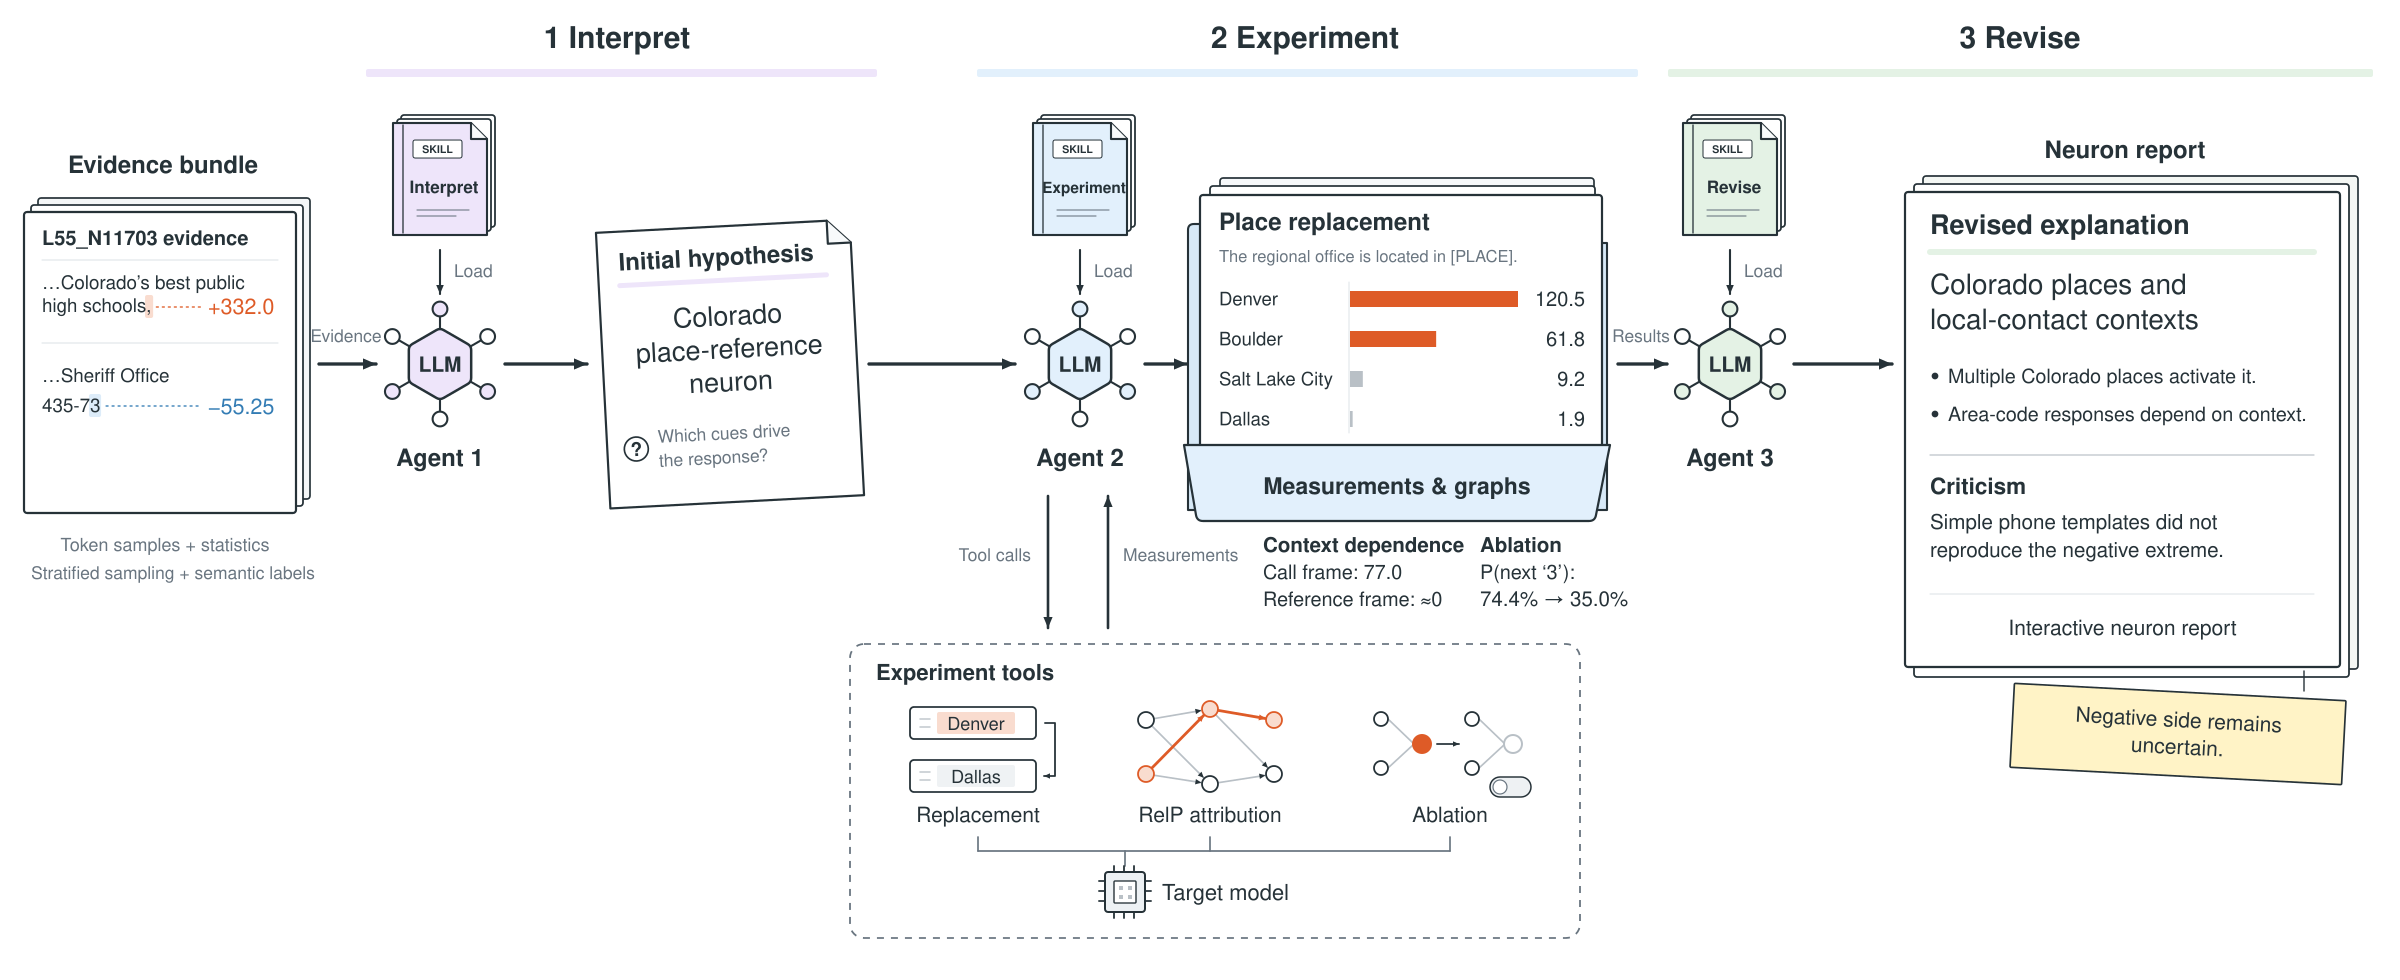
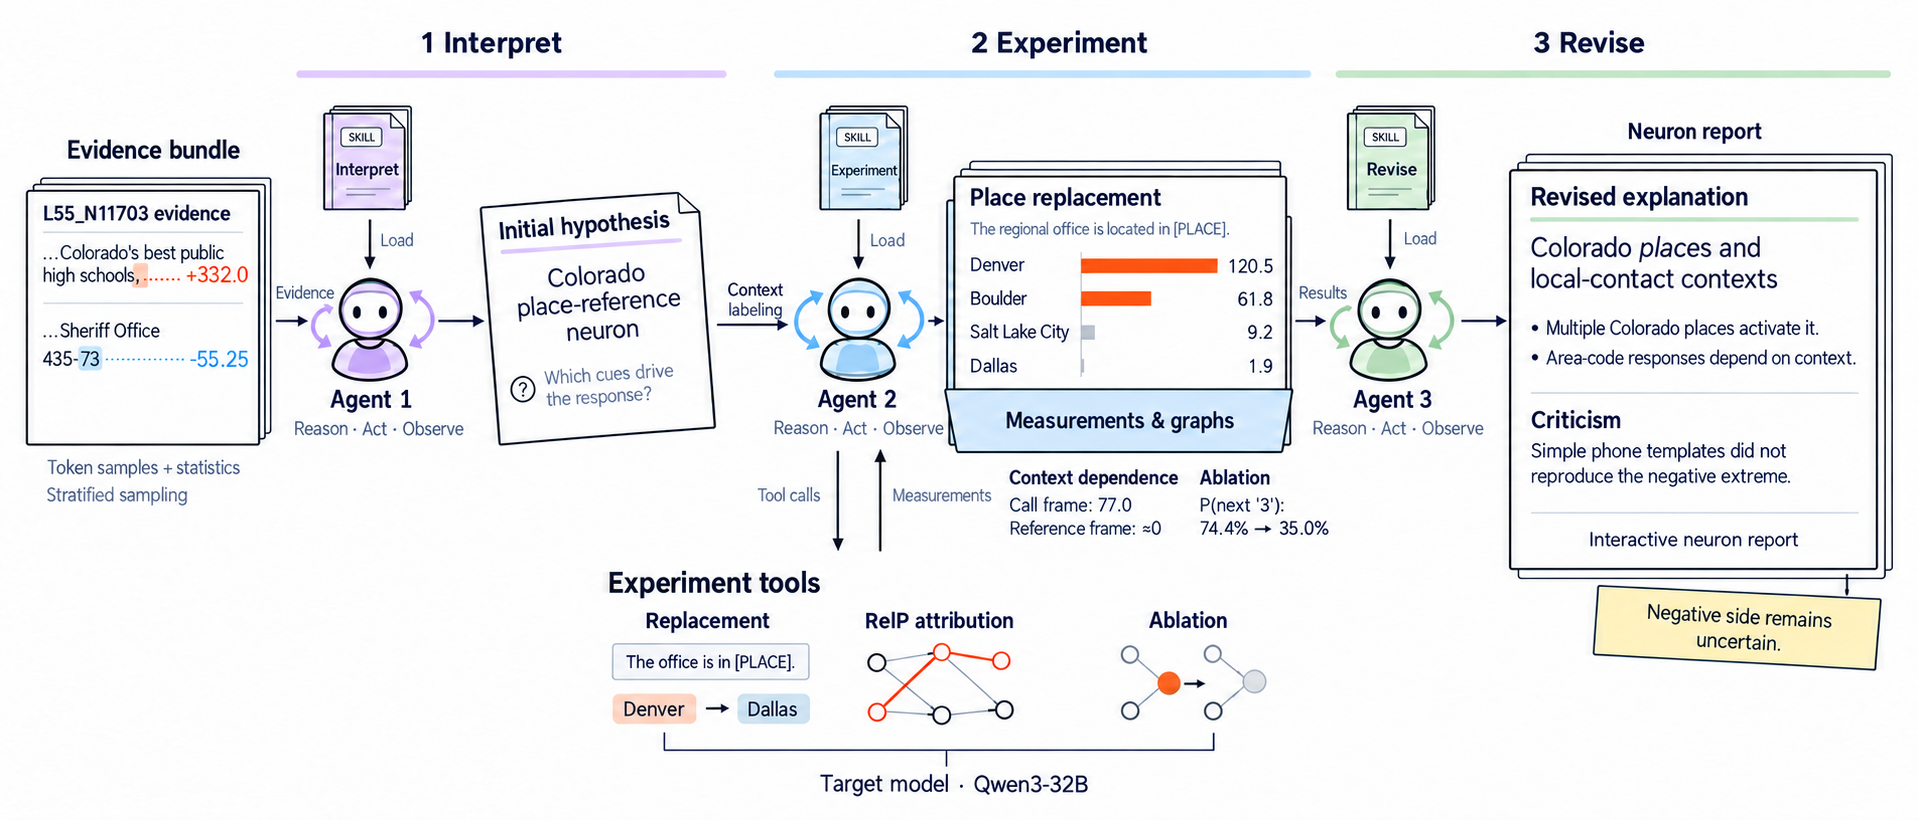
Update workflow illustration

Changed region(s): [[0.0, 0.0305, 0.9844, 0.9756], [0.5845, 0.7317, 0.6767, 0.8841]]

diff --git a/README.md b/README.md
@@ -57,7 +57,7 @@ Compare each reproduction with its original neuron paper. The directory lists bo
 
 ## ⚗ How It Works <a id="workflow"></a>
 
-![Evidence preparation and the three agent containers, with JSON/HTML handoffs and model measurements performed by host tools](assets/workflow.png)
+![Three research agents interpret activation evidence, run experiments on Qwen3-32B, and revise the neuron report](assets/workflow.png)
 
 1. **Prepare evidence.** Sample token positions across activation intervals from the saved archive and retain their contexts and measured gate, up, and product values. Sampling parameters are set in `settings.json`.
 2. **Interpret and label.** A fresh agent container loads `skills/interpret/` and reads the target neuron's initial HTML and structured evidence. It writes an initial explanation and response rules: up to three positive groups, up to three negative groups, and one No visible cue group. Fixed tools then use those rules to label individual contexts without revealing their measured responses. The labels are joined to the measurements for visualization and revision; shared positions reuse the same label across Activation spectrum and Inside the neuron.

diff --git a/assets/README.md b/assets/README.md
@@ -2,7 +2,7 @@
 
 `neuron-microscope.svg` / `neuron-microscope.png` contain the project banner. `badges/*.svg` are the README navigation badges.
 
-`workflow.svg` is the editable data-flow diagram; `workflow.png` is its README export. It shows evidence preparation, the three container stages, and host model execution.
+`workflow.png` illustrates the three-agent research workflow using the Colorado neuron: interpreting evidence, running experiments on Qwen3-32B, and revising the report.
 
 `report-anatomy.svg` / `report-anatomy.png` show the **Inside the neuron** plot for Qwen3-32B L1/N20535. The plot illustrates the report format using selected measured positions.
 
@@ -13,7 +13,6 @@ const sharp = require('sharp');
 
 async function main() {
   await sharp('assets/neuron-microscope.svg').png().toFile('assets/neuron-microscope.png');
-  await sharp('assets/workflow.svg').png().toFile('assets/workflow.png');
   await sharp('assets/report-anatomy.svg', { density: 144 })
     .flatten({ background: '#fff' }).png().toFile('assets/report-anatomy.png');
 }

diff --git a/README_zh.md b/README_zh.md
@@ -57,7 +57,7 @@
 
 ## ⚗ 工作流程 <a id="workflow"></a>
 
-![先准备证据，再运行三个独立 agent 容器；用 JSON/HTML 交接，由宿主工具执行模型测量](assets/workflow.png)
+![三个研究 agent 依次解释激活证据、在 Qwen3-32B 上开展实验，并修订神经元报告](assets/workflow.png)
 
 1. **准备证据**：从已有激活档案中按幅度区间抽取 token 位置，保留对应上下文，以及实测 gate、up 和乘积激活值。采样参数由 `settings.json` 配置。
 2. **初步解释与打标**：第一个独立容器加载 `skills/interpret/`，读取目标 neuron 的初始 HTML 和结构化证据，生成初步解释与分桶规则：正向、负向各最多三组，加一个 No visible cue 组。随后由固定工具根据这些规则逐样本打标，打标时隐藏待评样本的实测响应。代码将标签与实测值对应，用于绘图和修订；Activation spectrum 与 Inside the neuron 中的同一样本复用同一标签。
